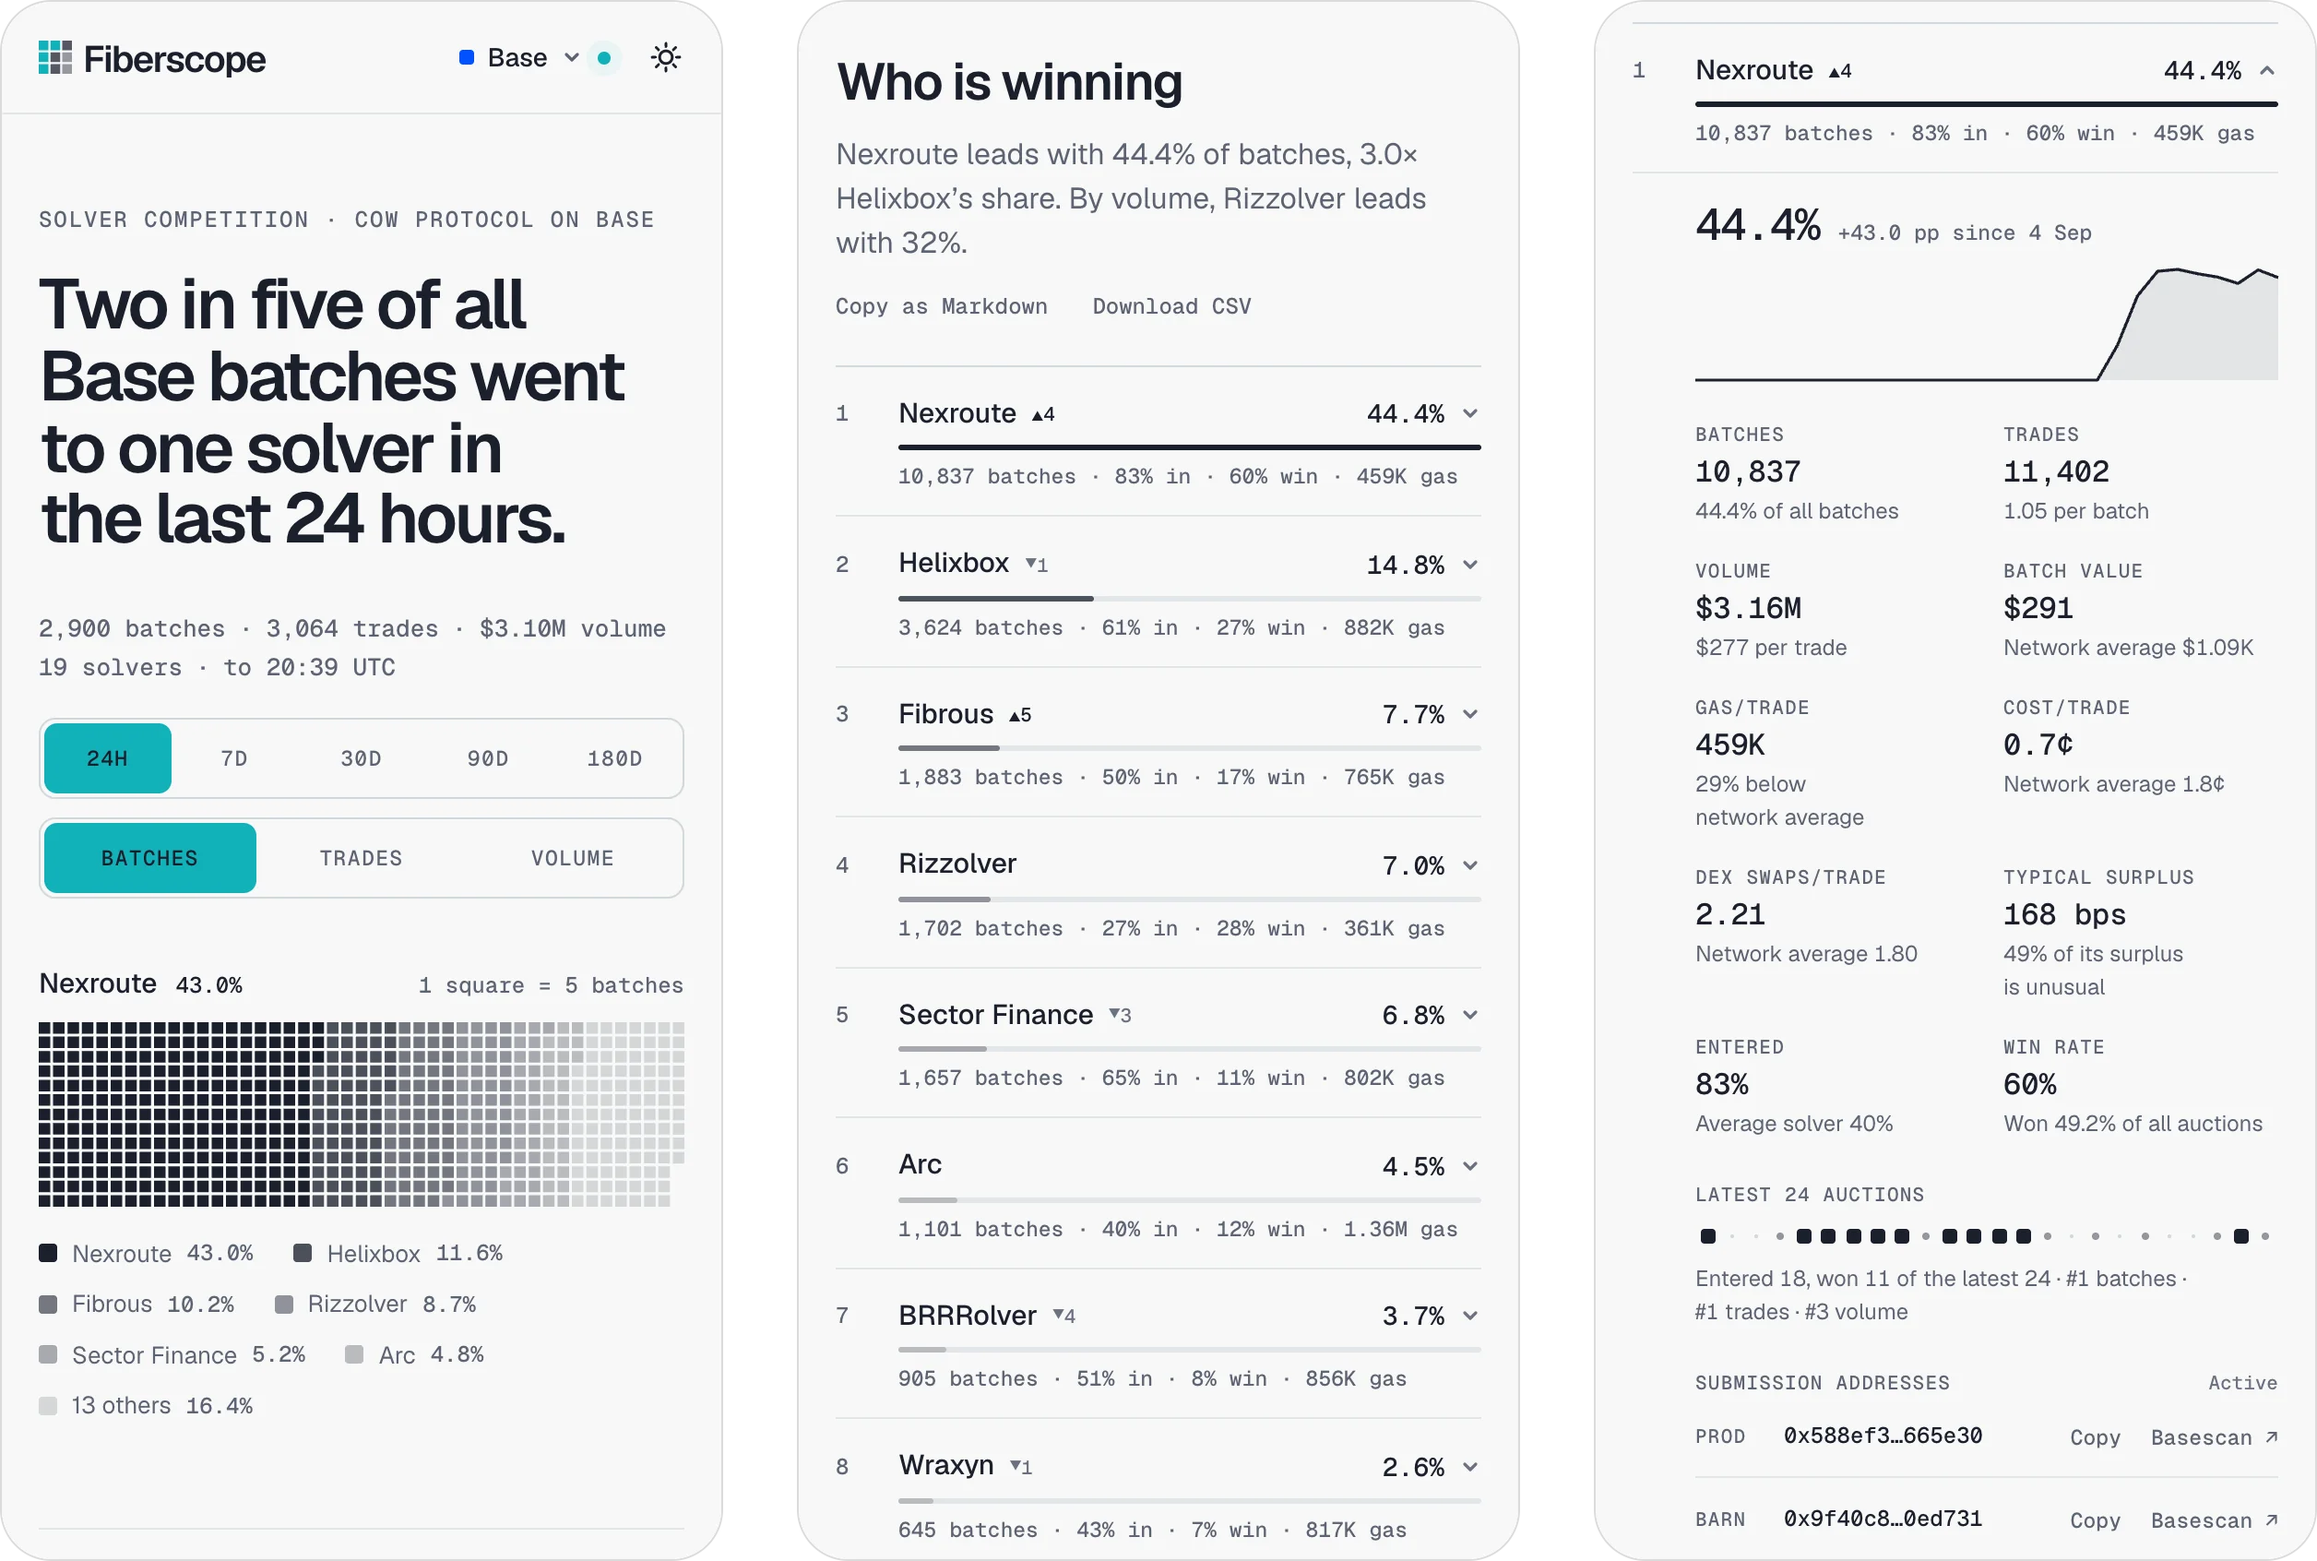
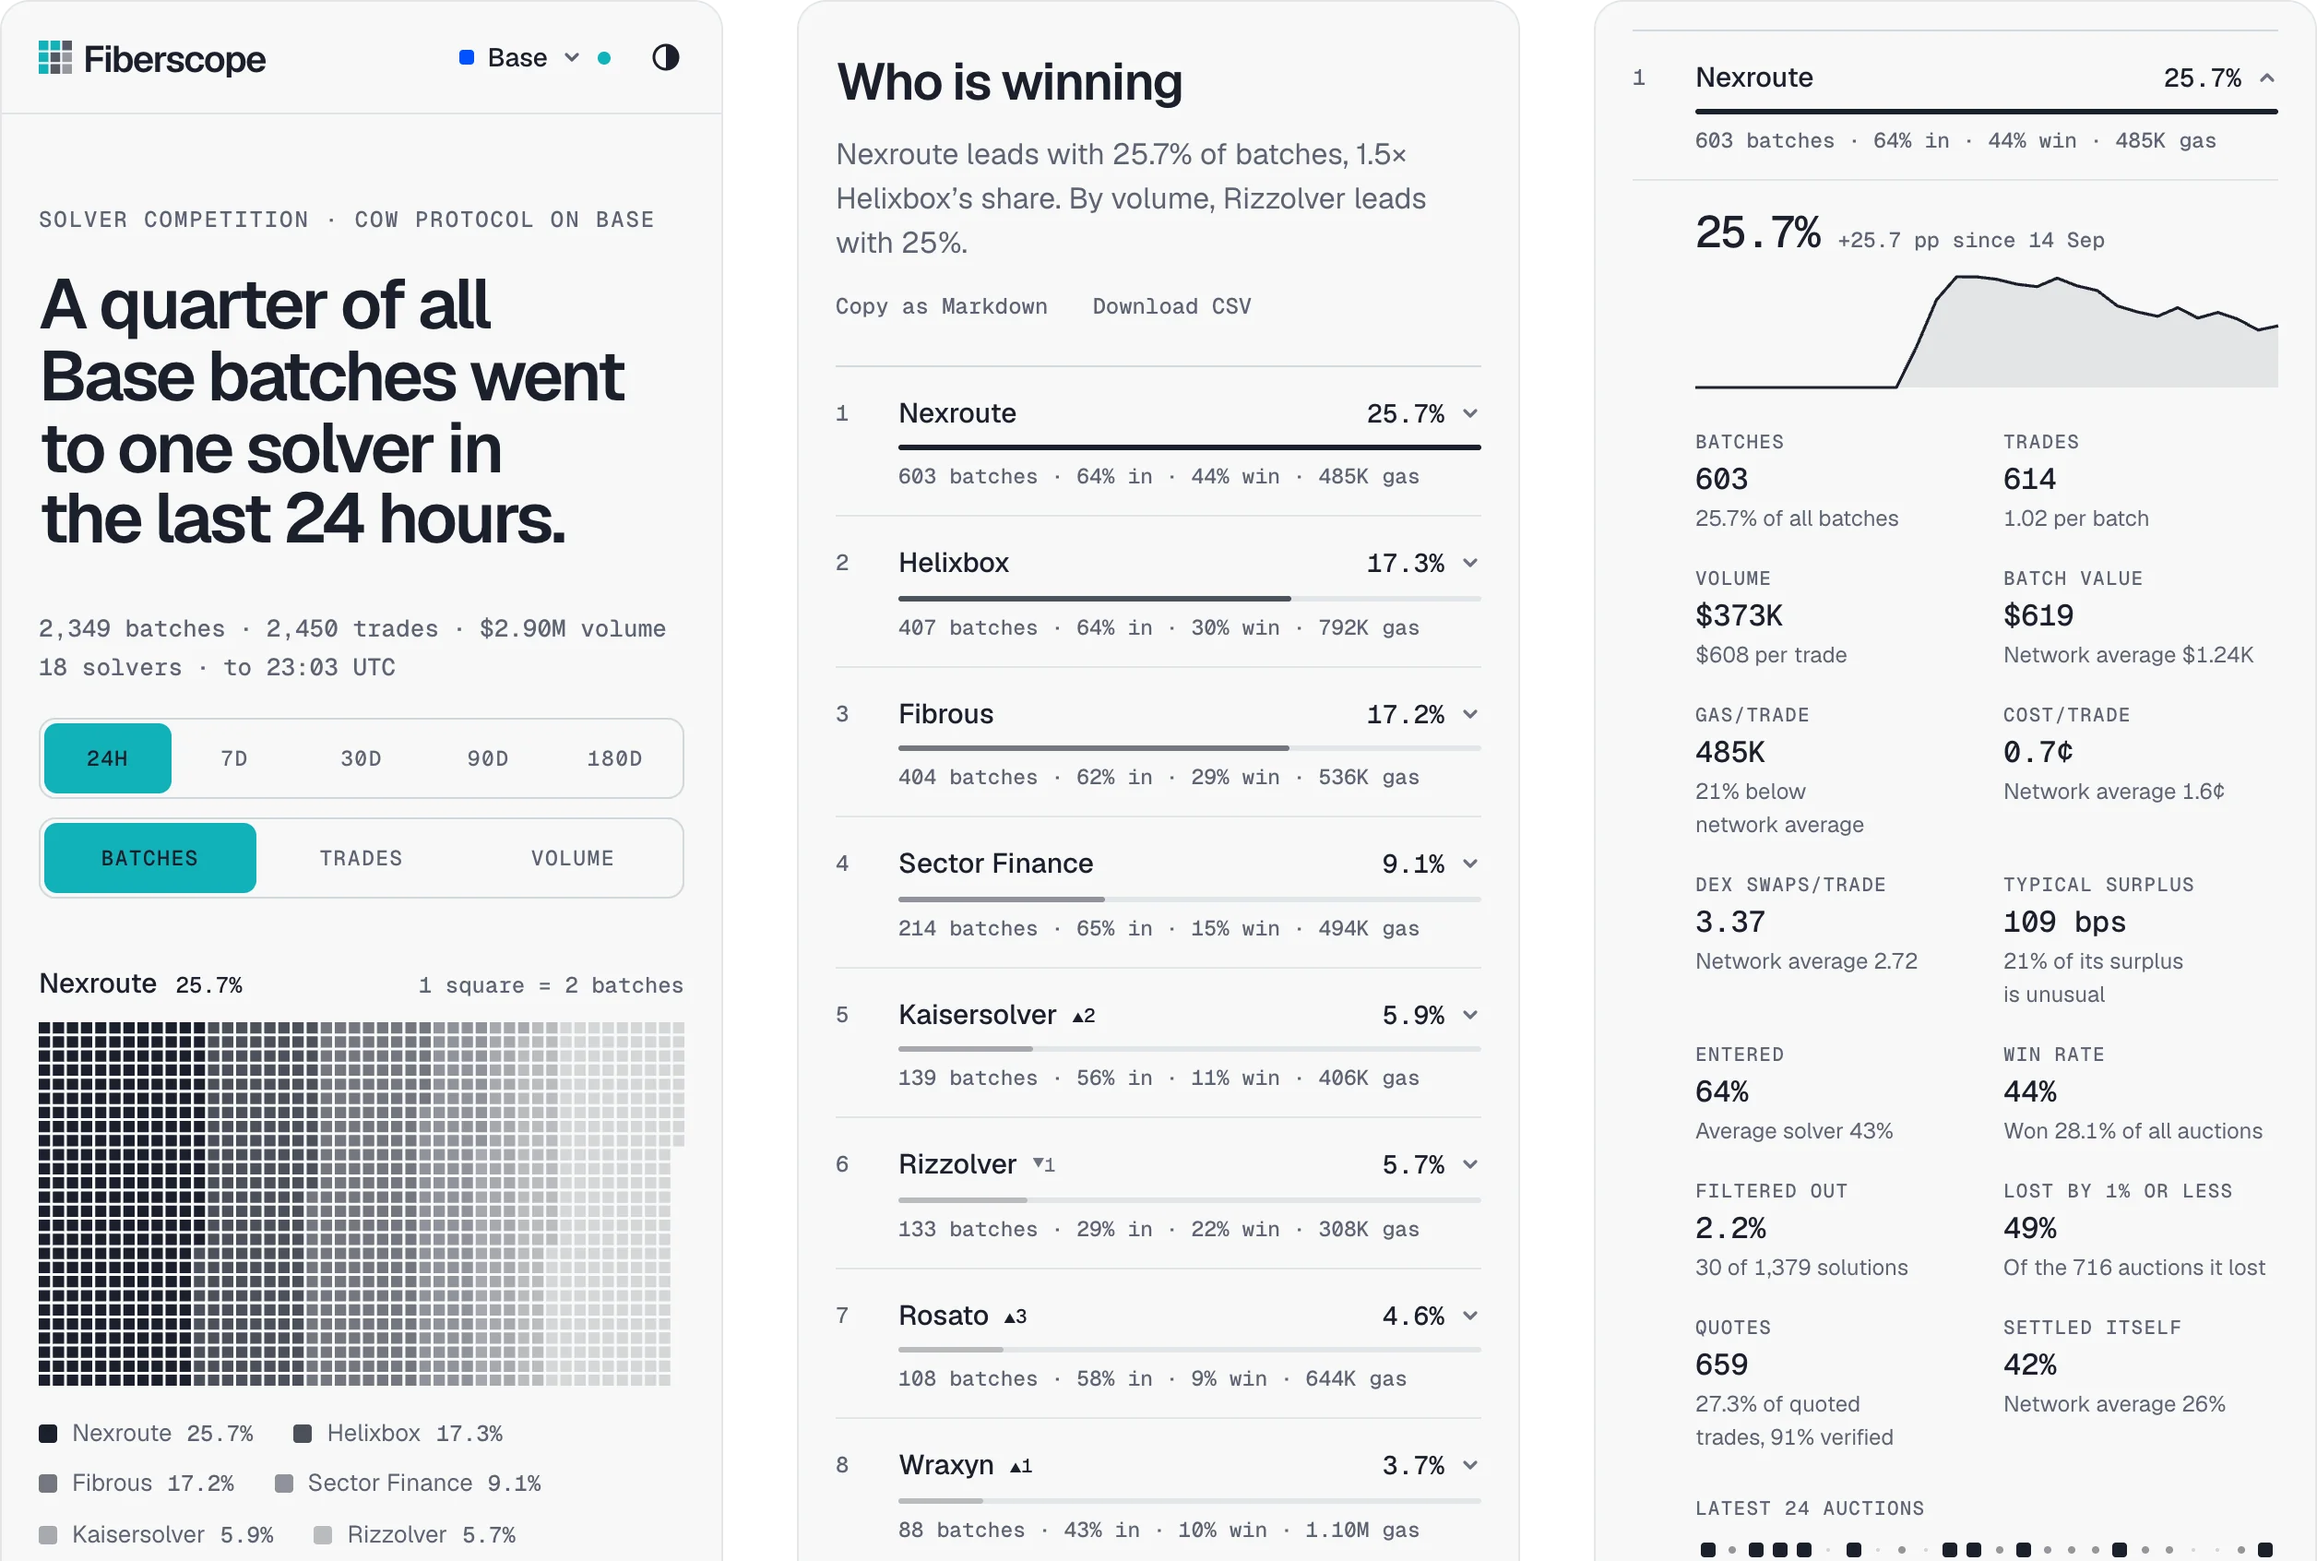
docs: README screenshots of the 2.5.0 page

diff --git a/README.md b/README.md
@@ -21,8 +21,8 @@ auctions, by how much, whether that is changing, and how efficiently each solver
 <table>
 <tr>
 <td width="50%" valign="top">
-<img src="docs/images/who-is-winning.webp" alt="Who is winning over 7 days: the solver table ranked by share of batches, with the leader's detail open: its daily share, its figures against the network average, its latest auctions, its submission addresses and its latest settlements.">
-<p><b>Who is winning.</b> Each solver's share of batches, trades or volume over 24 hours or 7, 30, 90 or 180 days, with rank changes, the share of auctions entered, and win rates. A row opens the solver's detail view.</p>
+<img src="docs/images/who-is-winning.webp" alt="Who is winning over 24 hours: the solver table ranked by share of batches, with the leader's detail open: its daily share, its figures against the network average, its latest auctions, its submission addresses and its latest settlements.">
+<p><b>Who is winning.</b> Each solver's share of batches, trades or volume over 24 hours or 7, 30, 90 or 180 days, with rank changes, the share of auctions entered, and win rates. A row opens the solver's detail view.</p>
 </td>
 <td width="50%" valign="top">
 <img src="docs/images/is-it-changing.webp" alt="Is it changing: daily batches across all solvers over 30 days, the last 7 days in bolder bars, and small charts of the top eight solvers' daily share.">
@@ -31,7 +31,7 @@ auctions, by how much, whether that is changing, and how efficiently each solver
 </tr>
 <tr>
 <td width="50%" valign="top">
-<img src="docs/images/who-enters.webp" alt="Who enters, who wins: a bar per solver for the share of auctions it entered and the share it won, and a tape of the latest 48 auctions marking who entered and who won each.">
+<img src="docs/images/who-enters.webp" alt="Who enters, who wins: a bar per solver for the share of auctions it entered, the share it won and the share of its solutions filtered out; a tape of the latest 48 auctions; and the solutions of the selected auction, each solver's best score against the winning one.">
 <p><b>Who enters, who wins.</b> How often each solver enters an auction, how often it wins and how many of its solutions CoW's fairness filter removed, and a tape of the latest 48 auctions: select one to see all its solutions and their scores. Then whose quotes orders were placed with, and the latest settlements with their protocol and partner fees.</p>
 </td>
 <td width="50%" valign="top">
@@ -45,7 +45,7 @@ auctions, by how much, whether that is changing, and how efficiently each solver
 <p><b>Trader surplus.</b> How far trades beat the limit prices their users signed, in basis points of volume, with surplus from limits far from the market set apart.</p>
 </td>
 <td width="50%" valign="top">
-<img src="docs/images/mobile.webp" alt="Fiberscope on a phone: the overview, the solver list over 7 days, and the leader's detail.">
+<img src="docs/images/mobile.webp" alt="Fiberscope on a phone: the overview, the solver list over 24 hours, and the leader's detail.">
 <p><b>On a phone.</b> The same page in a compact layout.</p>
 </td>
 </tr>
